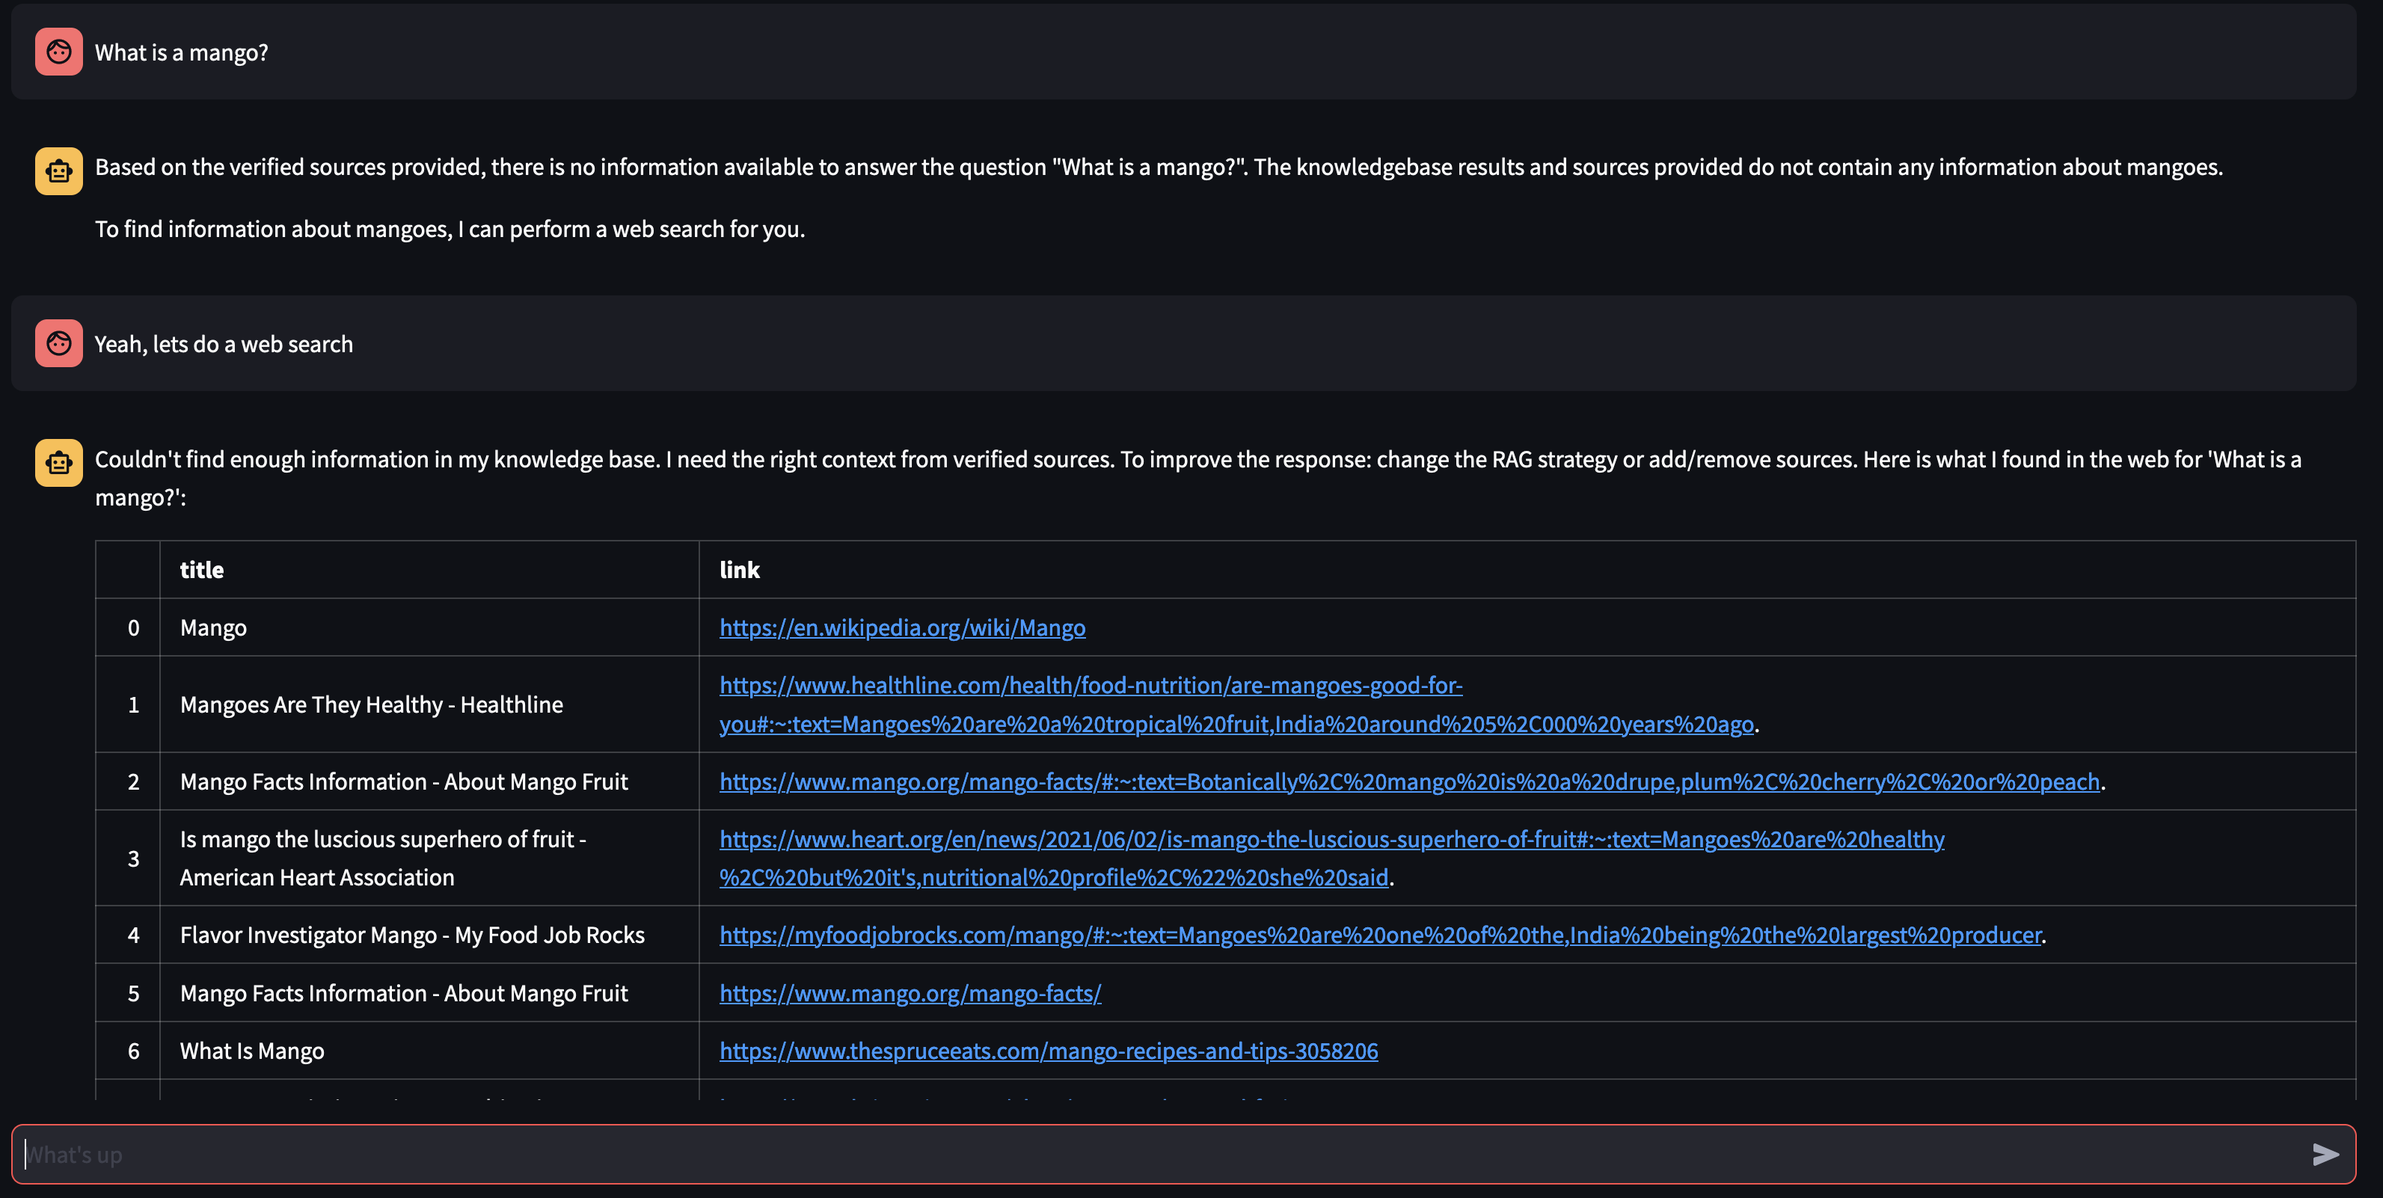
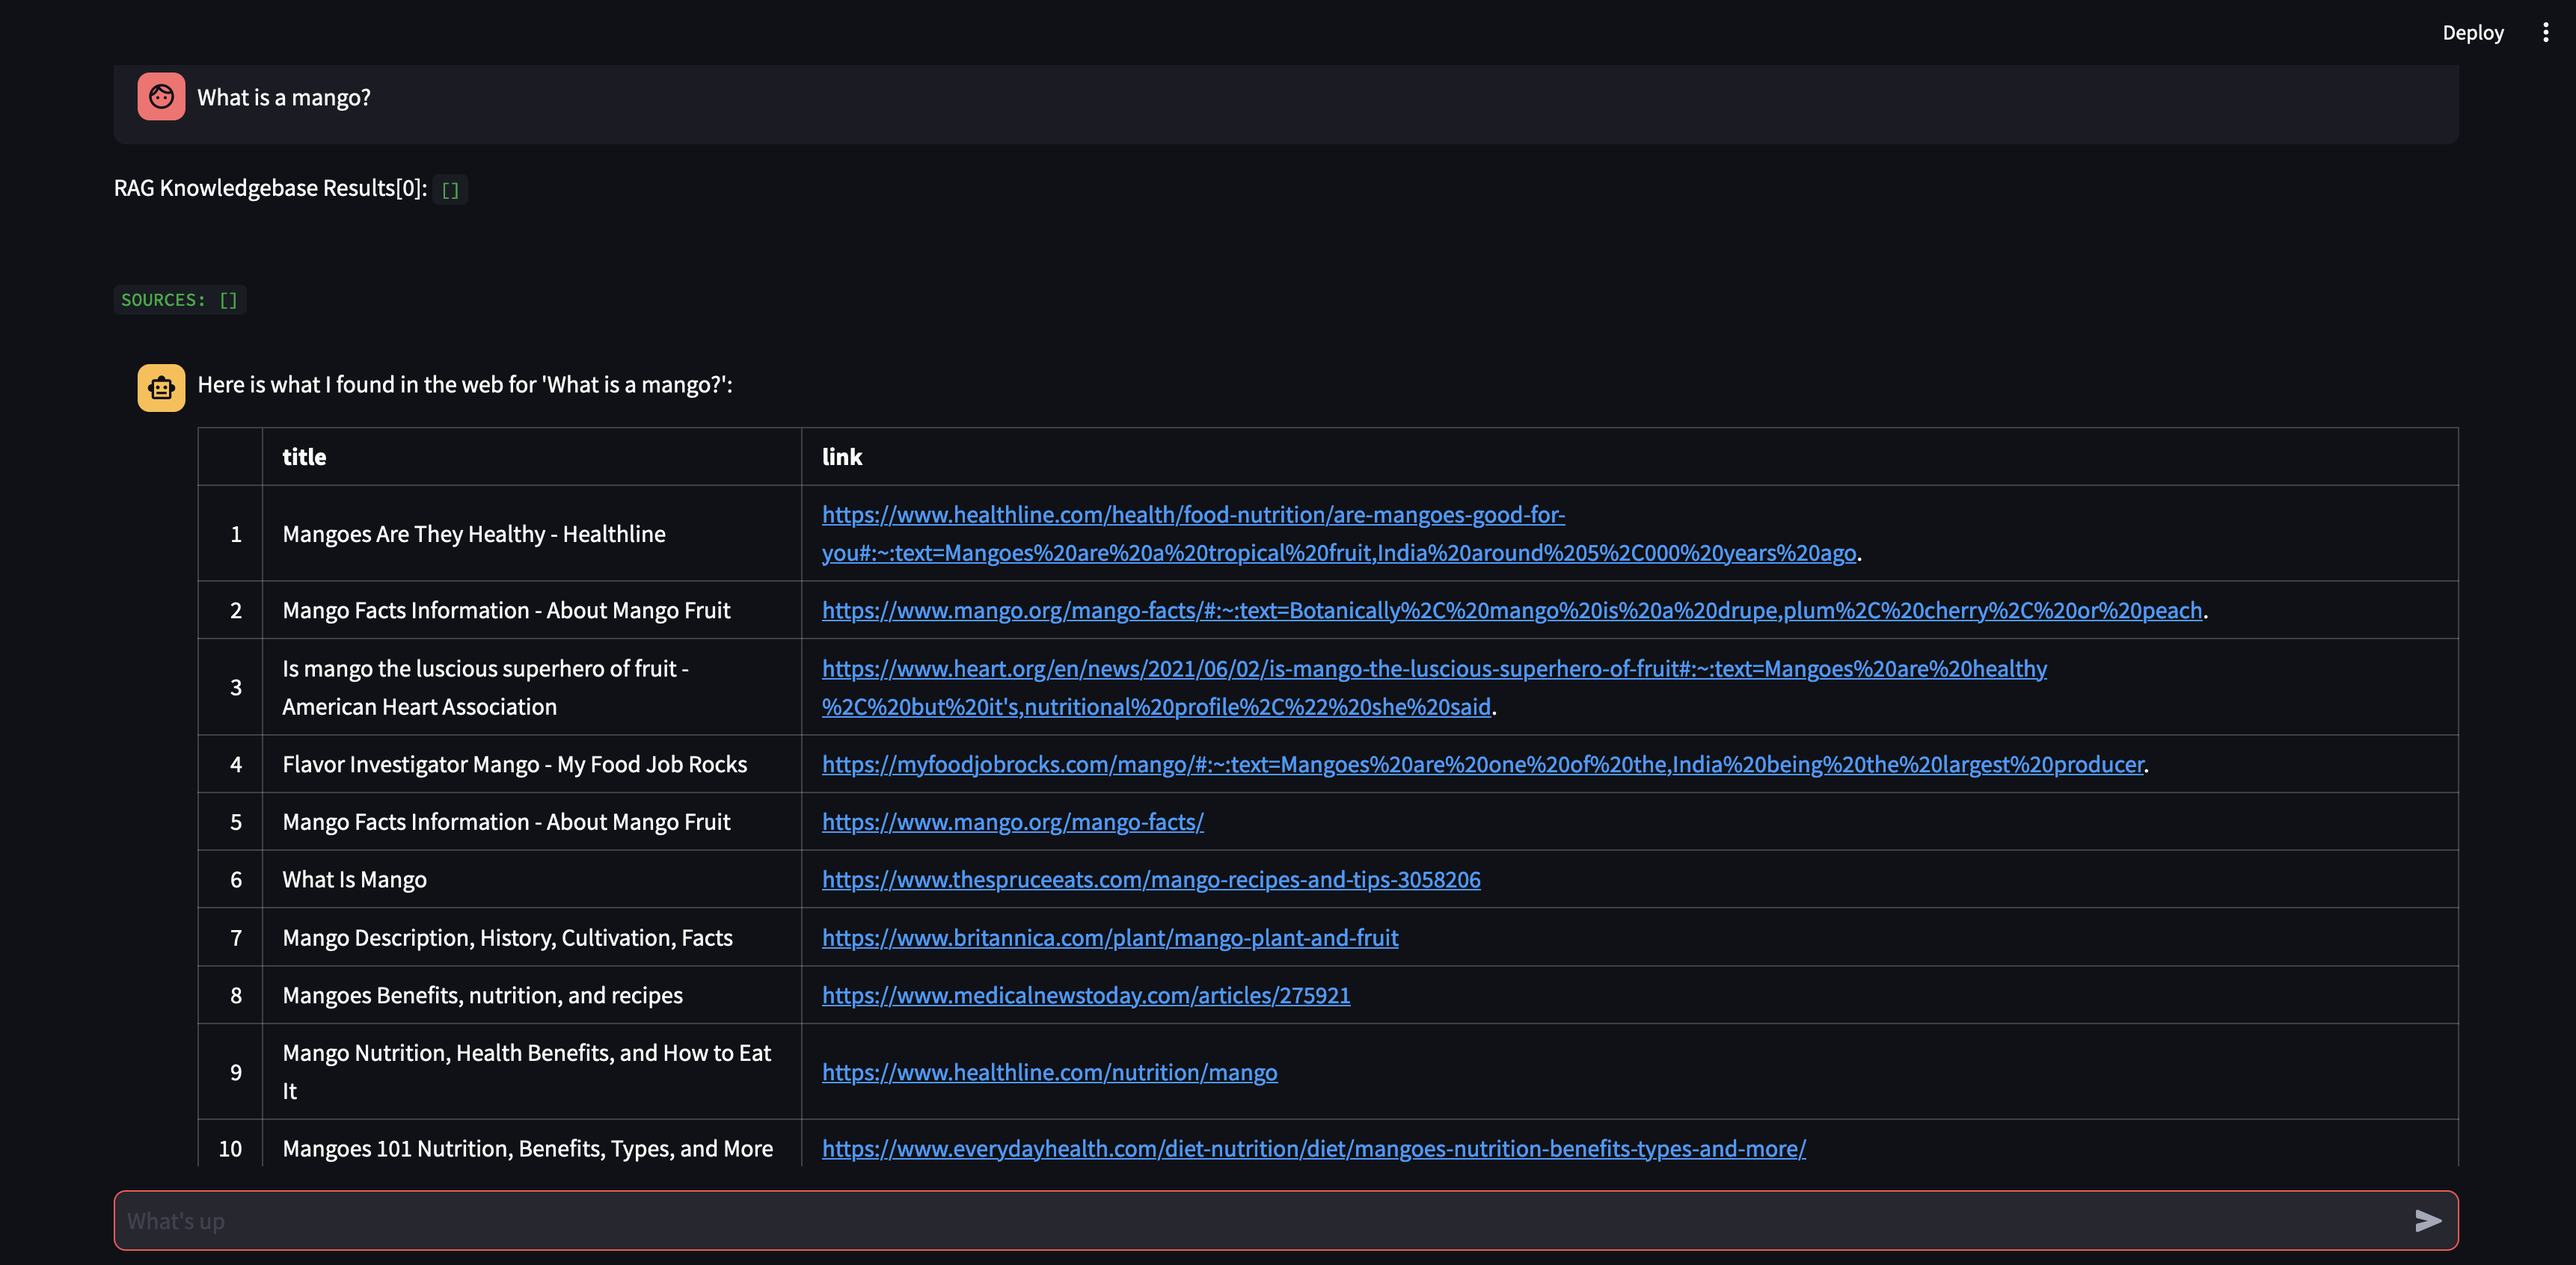
update

diff --git a/blog.md b/blog.md
@@ -443,23 +443,49 @@ Let's start by asking our agent a question. In this case, **"What is a mango?"**
 
 ![DEMO - Ask a Question](./images/ask_question.png)
 
-Since the bot is unable to provide an answer, it initiated a Google search to find relevant information.
+Since the bot is unable to provide an answer using the content in the vector database, it initiated a Google search to find relevant information. We can now tell it which sources it should "learn". In this case, we'll tell it to learn the first two sources from the search results.
 
 ## Tell the bot which results to learn from: 
 
 ![DEMO - Add a source](./images/add_sources.png)
 
-
 ## Change RAG strategy
-![DEMO - Change RAG strategy](./images/mod_rag.png)
+
+Next, let's modify the RAG strategy! Let's make it only use one source, and have it use a small chunk size of 500 characters.
+
+![DEMO - Change RAG strategy part 1](./images/mod_rag.png)
+
+Notice that though it was able to retrieve a chunk, with a fairly high relevance score, it was not able to generate a response because the chunk size was too small. Since it could not generate a response with the small chunk, it performed a web search on the user's behalf. 
+
+Let's see what happens if we increase the chunk size to be 3000 characters instead of 500. 
+
+![DEMO - Change RAG strategy part 2](./images/mod_rag-2.png)
+
+Now, with a larger chunk size, it was able to accurately formulate the response using the knowledge from the vector database! 
 
 ## List All Sources
+
+Let's see what's available in the knowledge base of the Agent by asking it: **What sources do you have in your knowledge base?**
+
 ![DEMO - List all sources](./images/list_sources.png)
 
 ## Remove a source of information
+
+If you want to remove a specific resource, you could do something like:
+```
+USER: remove source 'https://www.oracle.com' from the knowledge base
+```
+
+To remove all the sources in the collection - We could do something like:
+
+```
+USER: what sources do you have in your knowledge base?
+AGENT: {response}
+USER: remove all those sources please
+```
 ![DEMO - Remove source](./images/remove_sources.png)
 
-
+This blog post has provided a glimpse into the inner workings of our AI agent, showcasing its ability to learn and respond to user queries in an interactive manner. We've witnessed how it seamlessly combines its internal knowledge base with real-time web search to deliver comprehensive and accurate information. The potential of this technology is vast, extending far beyond simple question-answering. None of this would be possible without the magic of the **Function Calling API**.
 
 ## Function Calling API Basics: Actions 
 
